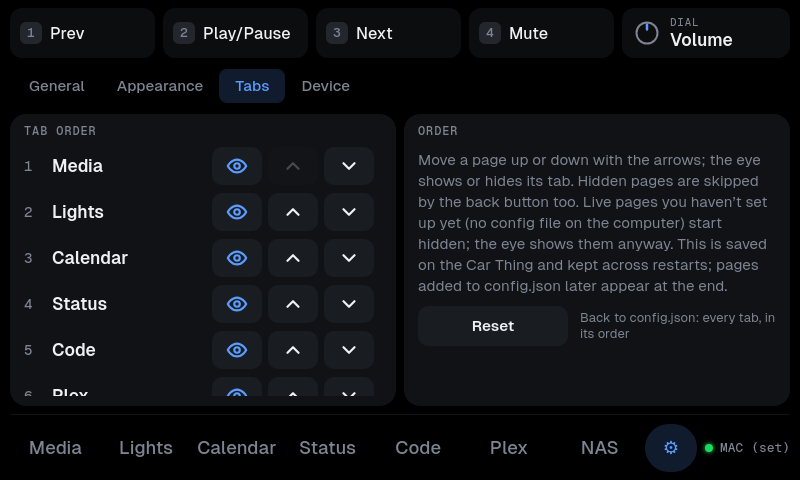
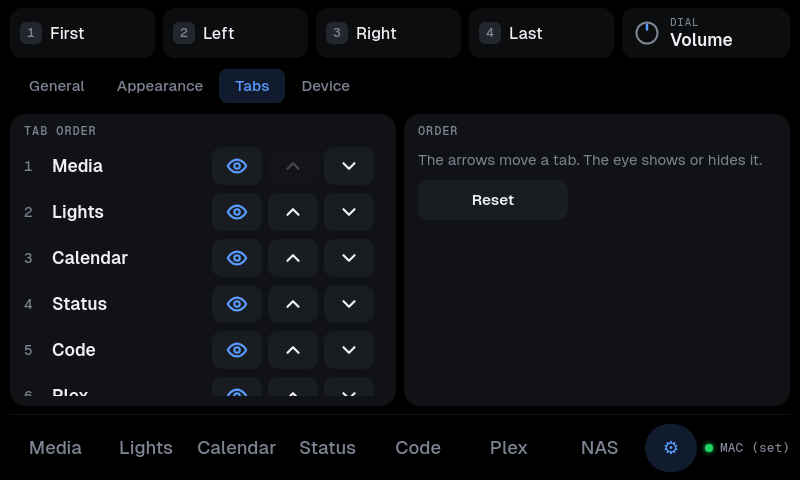
Drop the explanation next to the Tabs Reset button

diff --git a/device/web/index.html b/device/web/index.html
@@ -717,7 +717,7 @@
       <div class="card"><h3>Tab order</h3><div class="ag-list" id="taborder"></div></div>
       <div class="card"><h3>Order</h3>
         <div class="ag-empty">The arrows move a tab. The eye shows or hides it.</div>
-        <div class="action"><div class="btn" data-tabs-reset="1">Reset</div><small>Back to config.json: every tab, in its order</small></div></div>
+        <div class="action"><div class="btn" data-tabs-reset="1">Reset</div></div></div>
     </div>
     <div class="sec" id="sec-device">
       <div class="card"><h3>Device</h3><div class="kv" id="kv"></div></div>
